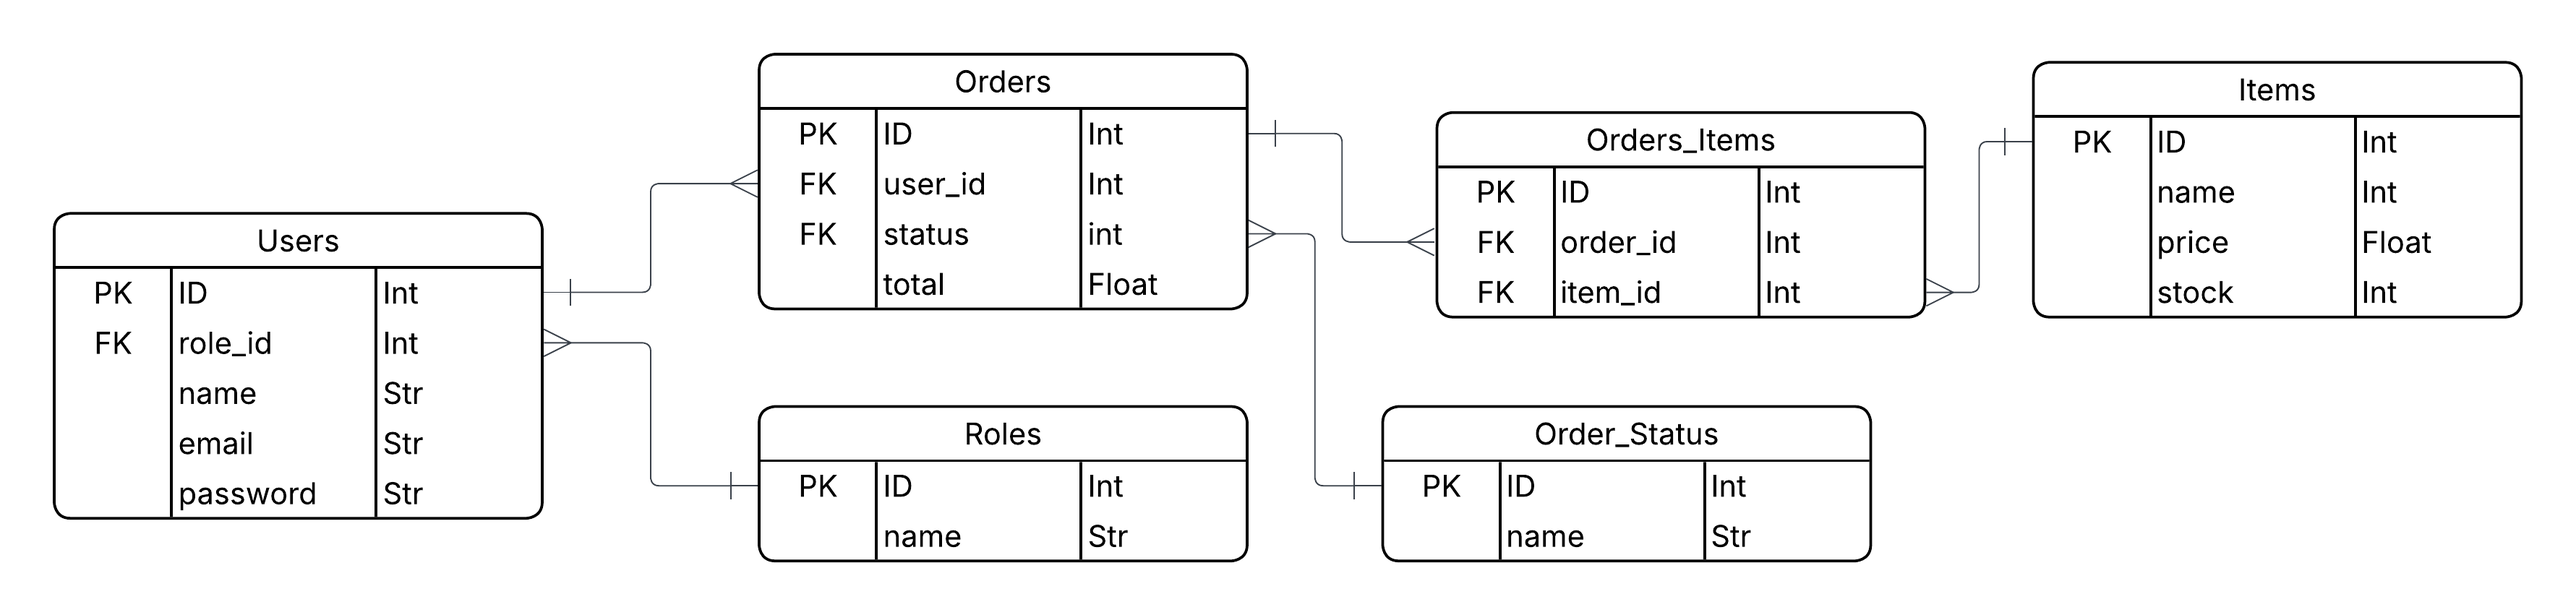
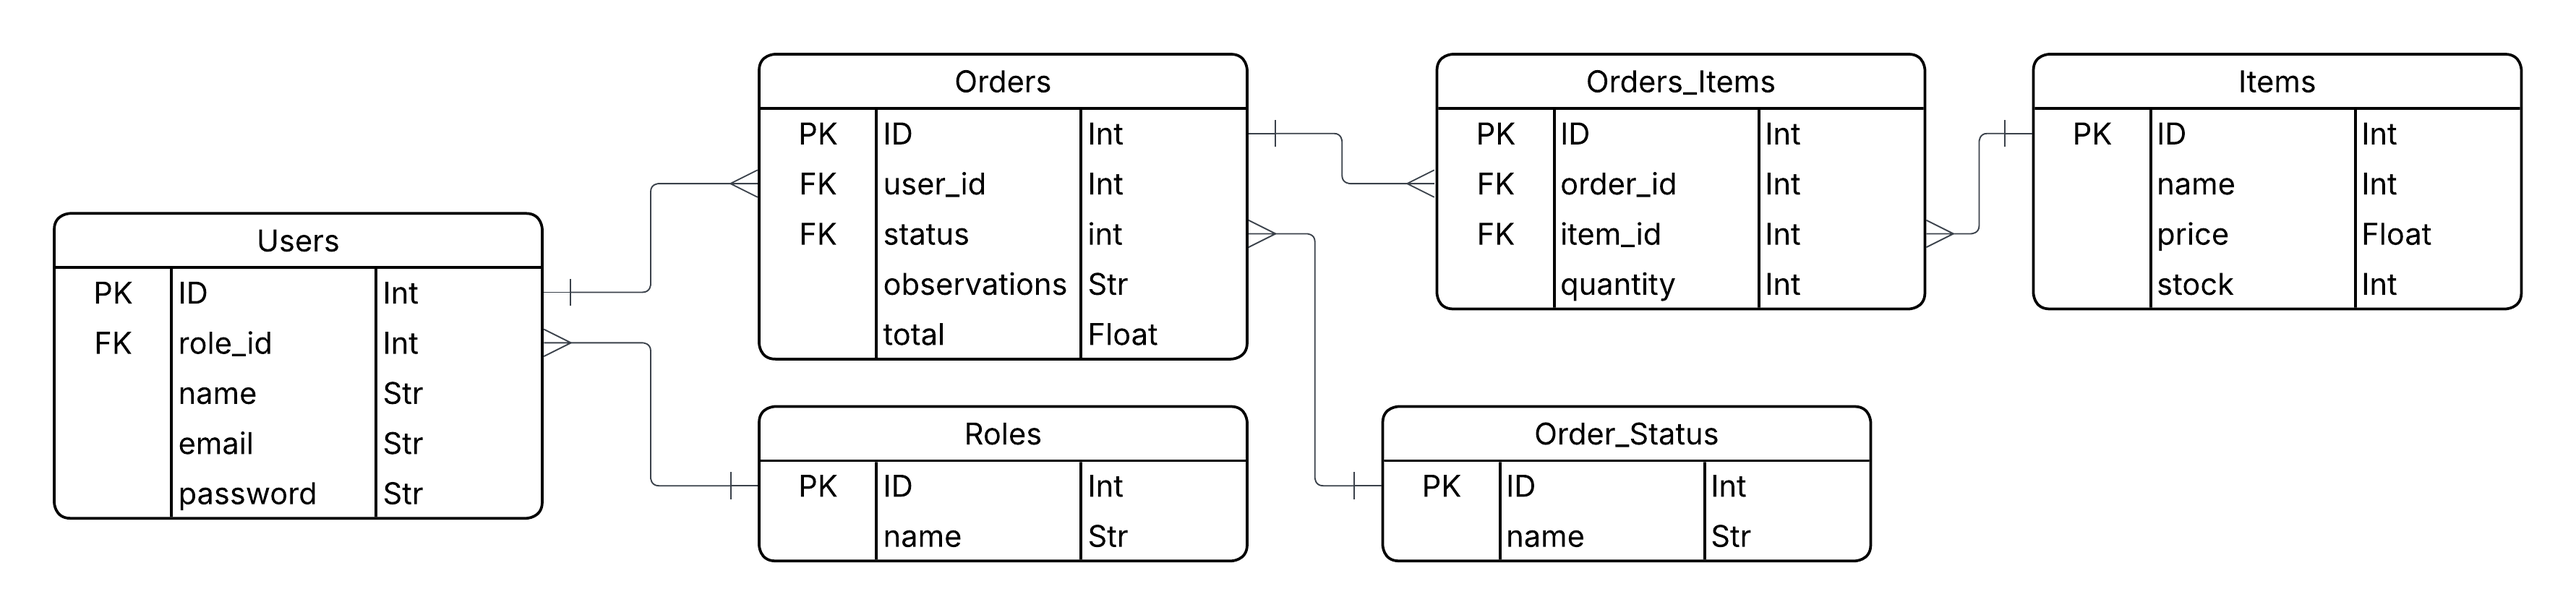
adicionado novas colunas necessarias na tabela de itens do pedido, send a quantidade por item, e na tabela de pedido sendo uma coluna de observações

diff --git a/src/main/java/br/com/food/demo/entity/OrderItem.java b/src/main/java/br/com/food/demo/entity/OrderItem.java
@@ -1,5 +1,6 @@
 package br.com.food.demo.entity;
 
+import jakarta.persistence.Column;
 import jakarta.persistence.Entity;
 import jakarta.persistence.FetchType;
 import jakarta.persistence.ForeignKey;
@@ -10,7 +11,9 @@ import jakarta.persistence.Index;
 import jakarta.persistence.JoinColumn;
 import jakarta.persistence.ManyToOne;
 import jakarta.persistence.Table;
+import jakarta.persistence.TableGenerator;
 import jakarta.validation.constraints.NotNull;
+import jakarta.validation.constraints.Positive;
 import lombok.Getter;
 import lombok.NoArgsConstructor;
 import lombok.Setter;
@@ -29,7 +32,16 @@ import lombok.Setter;
 public class OrderItem {
 
     @Id
-    @GeneratedValue(strategy = GenerationType.IDENTITY)
+    @TableGenerator(
+            name = "orders_items_id_generator",
+            table = "id_generators",
+            pkColumnName = "entity_name",
+            valueColumnName = "next_id",
+            pkColumnValue = "orders_items",
+            allocationSize = 1
+    )
+    @GeneratedValue(strategy = GenerationType.TABLE, generator = "orders_items_id_generator")
+    @Column(columnDefinition = "INTEGER")
     private Long id;
 
     @NotNull
@@ -49,4 +61,9 @@ public class OrderItem {
             foreignKey = @ForeignKey(name = "fk_orders_items_item")
     )
     private Item item;
+
+    @NotNull
+    @Positive
+    @Column(nullable = false, columnDefinition = "INTEGER DEFAULT 1")
+    private Integer quantity = 1;
 }

diff --git a/src/test/java/br/com/food/demo/DemoApplicationTests.java b/src/test/java/br/com/food/demo/DemoApplicationTests.java
@@ -160,8 +160,11 @@ class DemoApplicationTests {
 				.andExpect(status().isOk())
 				.andExpect(jsonPath("$.length()").value(1))
 				.andExpect(jsonPath("$[0].status").value("Aguardando confirmação"))
-				.andExpect(jsonPath("$[0].total").value(29.90))
-				.andExpect(jsonPath("$[0].items[0].name").value("Hambúrguer"));
+				.andExpect(jsonPath("$[0].total").value(59.80))
+				.andExpect(jsonPath("$[0].observations").value("Entregar na portaria"))
+				.andExpect(jsonPath("$[0].items[0].name").value("Hambúrguer"))
+				.andExpect(jsonPath("$[0].items[0].quantity").value(2))
+				.andExpect(jsonPath("$[0].items[0].observations").doesNotExist());
 	}
 
 	private void createOrderFor(User user) {
@@ -174,12 +177,14 @@ class DemoApplicationTests {
 		Order order = new Order();
 		order.setUser(user);
 		order.setStatus(defaultOrderStatus());
-		order.setTotal(new BigDecimal("29.90"));
+		order.setTotal(new BigDecimal("59.80"));
+		order.setObservations("Entregar na portaria");
 		order = orderRepository.save(order);
 
 		OrderItem orderItem = new OrderItem();
 		orderItem.setOrder(order);
 		orderItem.setItem(item);
+		orderItem.setQuantity(2);
 		orderItemRepository.save(orderItem);
 	}
 

diff --git a/src/main/java/br/com/food/demo/entity/Order.java b/src/main/java/br/com/food/demo/entity/Order.java
@@ -16,6 +16,7 @@ import jakarta.persistence.Table;
 import jakarta.validation.constraints.DecimalMin;
 import jakarta.validation.constraints.Digits;
 import jakarta.validation.constraints.NotNull;
+import jakarta.validation.constraints.Size;
 import lombok.Getter;
 import lombok.NoArgsConstructor;
 import lombok.Setter;
@@ -60,4 +61,8 @@ public class Order {
     @Digits(integer = 10, fraction = 2)
     @Column(nullable = false, precision = 12, scale = 2)
     private BigDecimal total;
+
+    @Size(max = 500)
+    @Column(length = 500)
+    private String observations;
 }

diff --git a/src/main/java/br/com/food/demo/dto/OrderItemResponse.java b/src/main/java/br/com/food/demo/dto/OrderItemResponse.java
@@ -7,14 +7,16 @@ import br.com.food.demo.entity.OrderItem;
 public record OrderItemResponse(
         Long id,
         String name,
-        BigDecimal price
+        BigDecimal price,
+        Integer quantity
 ) {
 
     public static OrderItemResponse from(OrderItem orderItem) {
         return new OrderItemResponse(
                 orderItem.getItem().getId(),
                 orderItem.getItem().getName(),
-                orderItem.getItem().getPrice()
+                orderItem.getItem().getPrice(),
+                orderItem.getQuantity()
         );
     }
 }

diff --git a/src/main/java/br/com/food/demo/dto/OrderResponse.java b/src/main/java/br/com/food/demo/dto/OrderResponse.java
@@ -9,6 +9,7 @@ public record OrderResponse(
         Long id,
         String status,
         BigDecimal total,
+        String observations,
         List<OrderItemResponse> items
 ) {
 
@@ -17,6 +18,7 @@ public record OrderResponse(
                 order.getId(),
                 order.getStatus().getName(),
                 order.getTotal(),
+                order.getObservations(),
                 items
         );
     }

diff --git a/README.md b/README.md
@@ -123,6 +123,25 @@ Authorization: Bearer <accessToken>
 
 Essa rota utiliza o identificador presente no JWT e não retorna pedidos pertencentes a outros usuários.
 
+Cada item do pedido informa sua quantidade. As observações opcionais pertencem ao pedido como um todo:
+
+```json
+{
+  "id": 1,
+  "status": "Aguardando confirmação",
+  "total": 59.80,
+  "observations": "Entregar na portaria",
+  "items": [
+    {
+      "id": 1,
+      "name": "Hambúrguer",
+      "price": 29.90,
+      "quantity": 2
+    }
+  ]
+}
+```
+
 ## Testando pelo Insomnia
 
 1. Inicie a aplicação.
